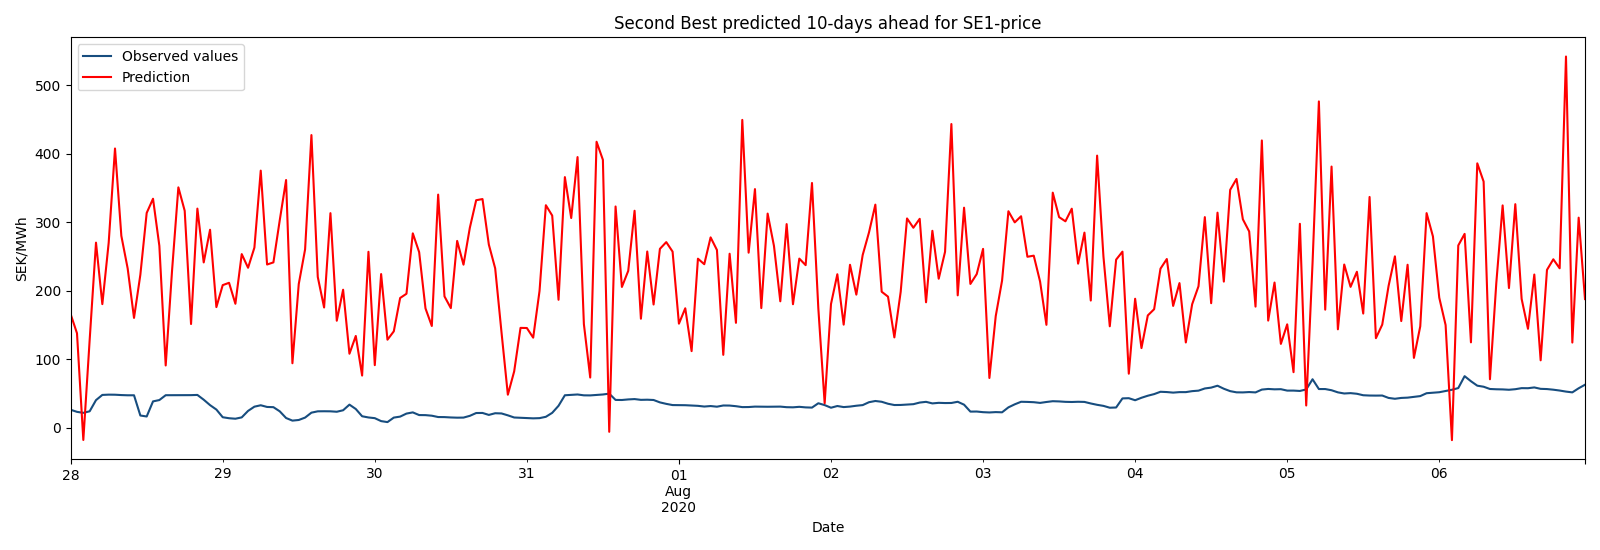
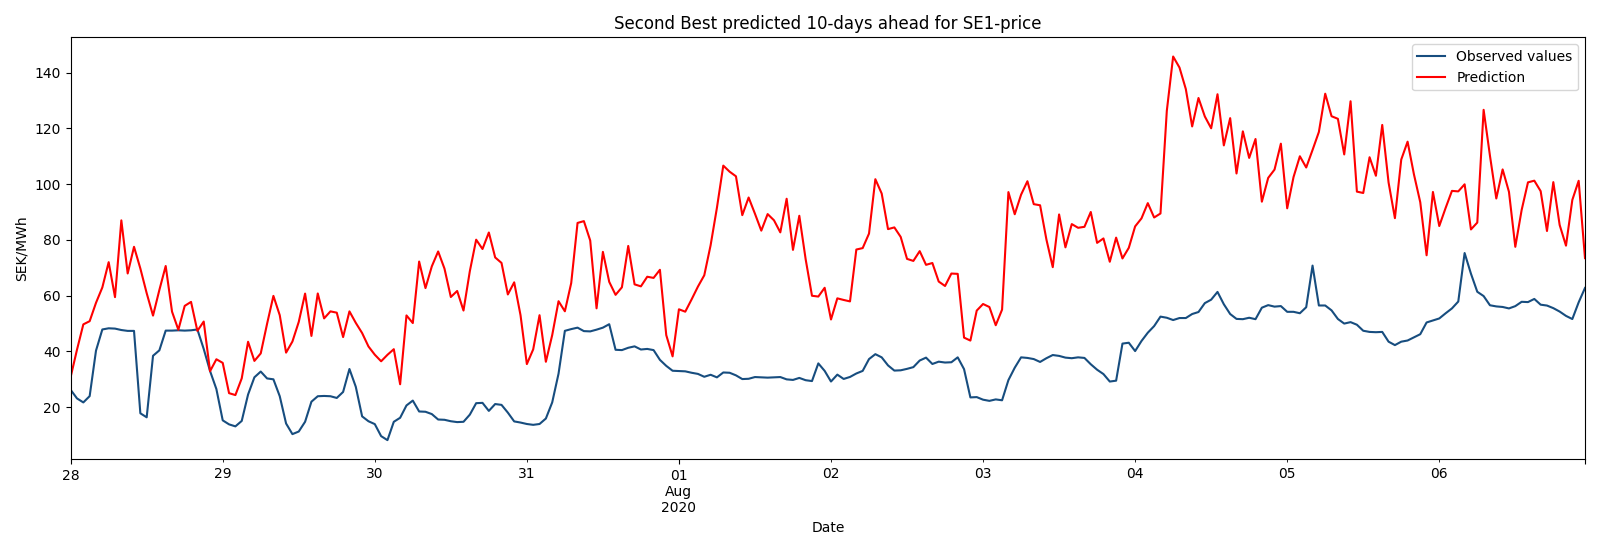
finished cnn

Changed region(s): [[0.0312, 0.1236, 1.0, 0.8036], [0.0, 0.0927, 0.1562, 0.1545], [0.9062, 0.0927, 1.0, 0.1545]]

diff --git a/models/CNN.py b/models/CNN.py
@@ -3,13 +3,14 @@ import pandas as pd
 import matplotlib.pyplot as plt
 
 #Keras imports
-from tensorflow.keras.layers import Dropout, Dense, BatchNormalization, Activation
+from tensorflow.keras.layers import Dropout, Dense, BatchNormalization, Activation, Conv1D, MaxPooling1D, Flatten
 from tensorflow.keras.models import Sequential
 from tensorflow.keras.optimizers import Adam
 from tensorflow.keras.callbacks import EarlyStopping
 
+
 #Helpfunctions imports
-from helpFunc.sequenceData import obtainDataDict, extractValuesMLP
+from helpFunc.sequenceData import obtainDataDict, extractValuesLSTM
 from helpFunc.ancillaryFunctions import evaluate, minMaxLoss
 from helpFunc.plots import plotLossFunction,plotWorstBest, plotAllPred
 
@@ -17,7 +18,7 @@ from helpFunc.plots import plotLossFunction,plotWorstBest, plotAllPred
 
 
 # MNIST class
-class MLP_class():
+class CNN_class():
     def __init__(self,
                  n_hidden1, 
                  n_hidden2,
@@ -39,7 +40,7 @@ class MLP_class():
                  plotWorstBestPrediction,
                  plotAllPredictions):
 
-        self.modelName="MLP"
+        self.modelName="CNN"
         self.n_hidden1 = n_hidden1
         self.n_hidden2 = n_hidden2
         self.n_hidden3 = n_hidden3
@@ -59,46 +60,55 @@ class MLP_class():
         self.plotLoss=plotLoss
         self.plotWorstBestPrediction=plotWorstBestPrediction
         self.plotAllPredictions=plotAllPredictions
-        self.__x_train, self.__x_val, self.__x_test, self.__y_train, self.__y_val, self.__y_test, self.targetScaler, self.dataDict, self.df = self.mlp_data()
-        self.__model = self.mlp_model()
+        self.__x_train, self.__x_val, self.__x_test, self.__y_train, self.__y_val, self.__y_test, self.targetScaler, self.dataDict, self.df = self.cnn_data()
+        self.__model = self.cnn_model()
         
         
     # load data from sequenceData
-    def mlp_data(self):
+    def cnn_data(self):
         PRICEAREA = self.priceArea
         TARGETNAME = self.targetName
         df, dataDict, targetScaler = obtainDataDict(PRICEAREA, TARGETNAME, weeklySequence=self.weeklySequence, dailySequence=self.dailySequence)
-        X_train, y_train = extractValuesMLP(dataDict["train"][0],dataDict["train"][1],TARGETNAME)
-        X_val, y_val = extractValuesMLP(dataDict["val"][0],dataDict["val"][1],TARGETNAME)
-        X_test, y_test = extractValuesMLP(dataDict["test"][0],dataDict["test"][1],TARGETNAME)
+        X_train, y_train = extractValuesLSTM(dataDict["train"][0],dataDict["train"][1],TARGETNAME)
+        X_val, y_val = extractValuesLSTM(dataDict["val"][0],dataDict["val"][1],TARGETNAME)
+        X_test, y_test = extractValuesLSTM(dataDict["test"][0],dataDict["test"][1],TARGETNAME)
         return X_train, X_val, X_test, y_train, y_val, y_test, targetScaler, dataDict, df
     
     # model
-    def mlp_model(self):        
-        n_features = self.__x_train.shape[1]
+    def cnn_model(self):        
+        n_steps = self.__x_train.shape[1]
+        n_features = self.__x_train.shape[2]
         n_output = self.__y_train.shape[1]
 
         model = Sequential()
 
-        #First layer
-        model.add(Dense(self.n_hidden1, input_dim=n_features))
+        #Convolutional layer 1
+        model.add(Conv1D(self.n_hidden1, kernel_size=3, padding='same', input_shape=(n_steps, n_features)))
+        #model.add(Dropout(self.dropout1))
         model.add(BatchNormalization())
         model.add(Activation('relu'))
-        model.add(Dropout(self.dropout1))
-        
-        #Second layer
-        model.add(Dense(self.n_hidden2))
-        model.add(BatchNormalization())
-        model.add(Activation('relu'))
-        model.add(Dropout(self.dropout2))
+        model.add(MaxPooling1D(pool_size=3)) #, strides=2))
 
-        #Third layer
-        model.add(Dense(self.n_hidden3))
+        #Convolutional layer 2
+        model.add(Conv1D(self.n_hidden2, kernel_size=3, padding='same'))
+        #model.add(Dropout(self.dropout2))
         model.add(BatchNormalization())
         model.add(Activation('relu'))
-        model.add(Dropout(self.dropout3))
+        model.add(MaxPooling1D(pool_size=2)) #, strides=2))
 
-        #Output layer
+        #Convolutional layer 3
+        model.add(Conv1D(self.n_hidden3, kernel_size=3, padding='same'))
+        #model.add(Dropout(self.dropout3))
+        model.add(BatchNormalization())
+        model.add(Activation('relu'))
+        model.add(MaxPooling1D(pool_size=1)) #, strides=2))
+
+
+        # Fully connected 
+        model.add(Flatten())
+        model.add(Dense(64, activation = 'relu'))
+    
+        # Output 
         model.add(Dense(n_output))
         opt = Adam(learning_rate=self.learningRate)
         model.compile(optimizer=opt, loss=self.lossMetric, metrics=self.lossMetric)
@@ -106,7 +116,7 @@ class MLP_class():
     
 
     # fit lstm model
-    def mlpFit(self):
+    def cnnFit(self):
         early_stopping = EarlyStopping(patience=self.patience, verbose=1)
         fittedModel = self.__model.fit(self.__x_train, self.__y_train,
                        batch_size=self.batch_size,
@@ -118,10 +128,10 @@ class MLP_class():
         if self.plotLoss:
             plotLossFunction(fittedModel, self.modelName)
 
-    # evaluate mlp model
-    def mlpPredict(self):
+    # evaluate lstm model
+    def cnnPredict(self):
         #Fitting (training) the model
-        self.mlpFit()
+        self.cnnFit()
        
         #Forecasting for all test samples
         y_hat_test = self.__model.predict(self.__x_test, batch_size=self.batch_size)
@@ -134,7 +144,7 @@ class MLP_class():
             j["Target"] = self.targetScaler.inverse_transform(np.array(j["Scaled-target"]).reshape(-1,1))
 
 
-    def mlpEvaluate(self):
+    def cnnEvaluate(self):
         testMAE, errors = evaluate(self.dataDict["test"][1])
         print(errors)
         if self.plotWorstBestPrediction:
@@ -154,7 +164,7 @@ if __name__ == "__main__":
         'verboseTraining': 1,
         'plotLoss': True,
         'plotWorstBestPrediction': True,
-        'plotAllPredictions': True,
+        'plotAllPredictions': False,
 
         #Data parameters
         'priceArea' : 'SE1',
@@ -163,20 +173,21 @@ if __name__ == "__main__":
         'weeklySequence': True,
 
         #Network/training parameters
-        'n_hidden1': 512,
-        'n_hidden2': 128,
+        'n_hidden1': 128,
+        'n_hidden2': 64,
         'n_hidden3': 64,
-        'dropout1': 0.001,
-        'dropout2': 0.001,
-        'dropout3': 0.001,
-        'batch_size': 32,
+        'dropout1': 0.01,
+        'dropout2': 0.01,
+        'dropout3': 0.01,
+        'batch_size': 64,
         'epochs': 1000,
-        'learningRate': 0.0001,
+        'learningRate': 0.001,
         'lossMetric' :'mae',
         'patience': 200
    
     }
 
-    _mlp = MLP_class(**parameters)
-    _mlp.mlpPredict()
-    _mlp.mlpEvaluate()
+    _cnn = CNN_class(**parameters)
+    _cnn.cnnPredict()
+    _cnn.cnnEvaluate()
+    _cnn.dataDict["test"][1][0]

diff --git a/models/lstm.py b/models/lstm.py
@@ -7,12 +7,10 @@ from tensorflow.keras.layers import Dropout, Dense, LSTM
 from tensorflow.keras.models import Sequential
 from tensorflow.keras.optimizers import Adam
 from tensorflow.keras.callbacks import EarlyStopping
-from tensorflow.keras.layers import LSTM
 
 #Helpfunctions imports
 from helpFunc.sequenceData import obtainDataDict, extractValuesLSTM
 from helpFunc.ancillaryFunctions import evaluate, minMaxLoss
-from helpFunc.metrics import MAE, sMAPE, MAPE, RMSE
 from helpFunc.plots import plotLossFunction,plotWorstBest, plotAllPred
 
 
@@ -149,8 +147,8 @@ if __name__ == "__main__":
         #Network/training parameters
         'n_hidden1': 64,
         'n_hidden2': 64,
-        'dropout1': 0.2,
-        'dropout2': 0.2,
+        'dropout1': 0.1,
+        'dropout2': 0.1,
         'batch_size': 32,
         'epochs': 1000,
         'learningRate': 0.0001,

diff --git a/models/helpFunc/plots.py b/models/helpFunc/plots.py
@@ -48,5 +48,5 @@ def plotWorstBest(dataDict, targetName, modelName, minIndeces, maxIndeces):
 
 def plotAllPred(dataDict, targetName, modelName):
     for i, j in enumerate(dataDict["test"][1]):
-        plotPred(j, targetName, " EXAMPLE: "+str(i+1), "/massplots/" + str(i+1) + " " + modelName+"_pred_example")
+        plotPred(j, targetName, " EXAMPLE: "+str(i+1), "/massplots/" + str(i+1) + "_" + modelName+"_pred_example")
     
